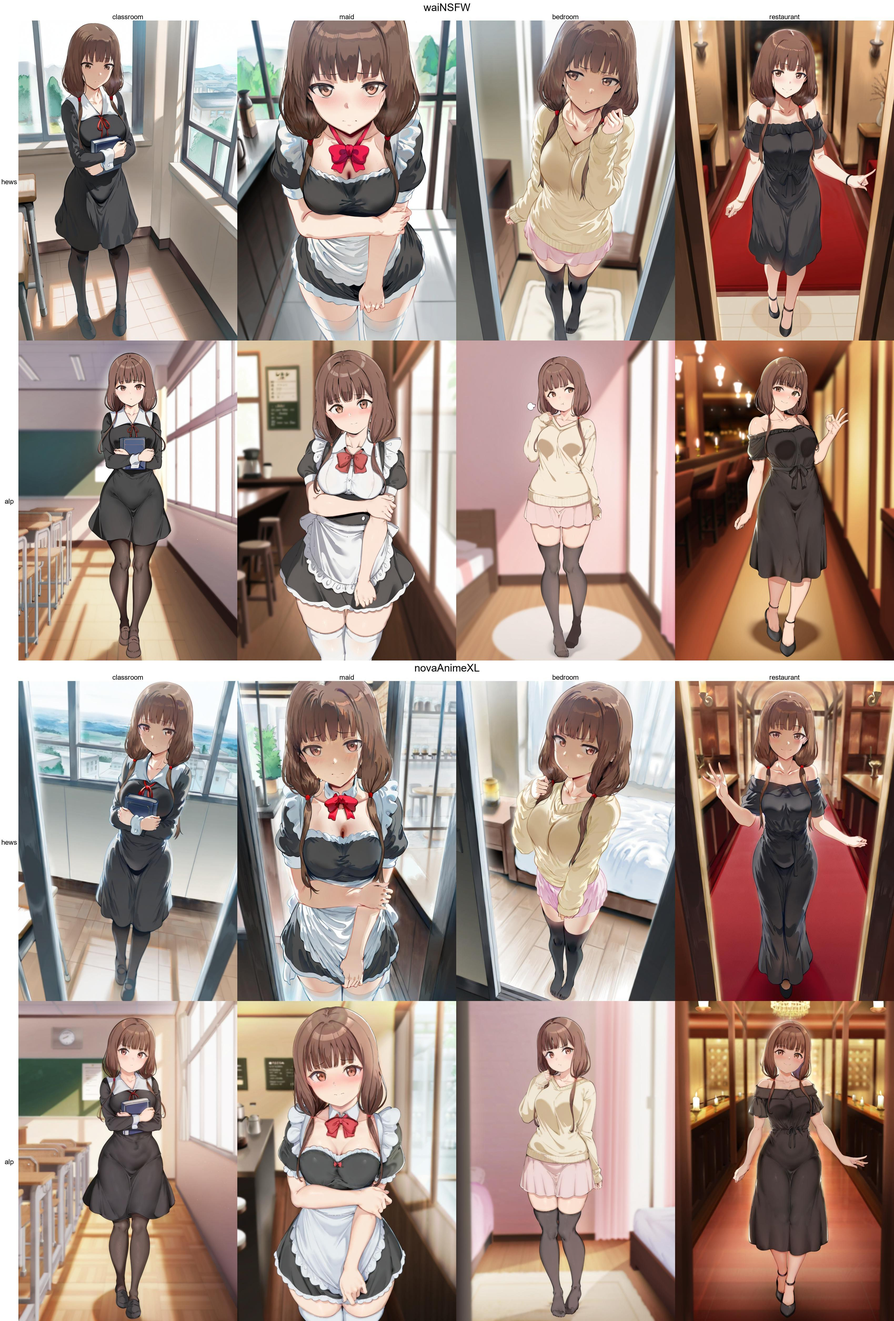
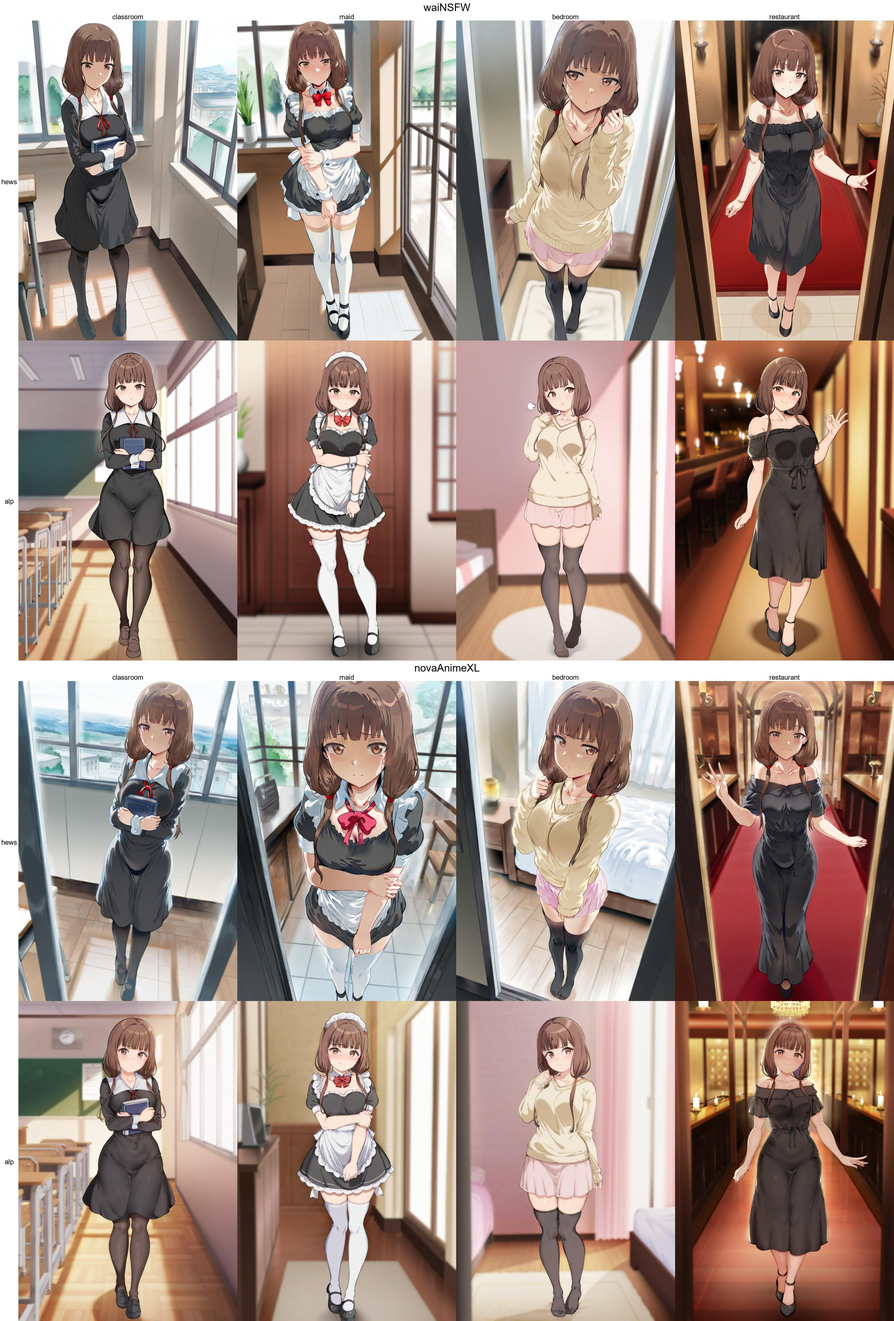
fix(zyx): add miss prompt

Changed region(s): [[0.2496, 0.0, 0.5303, 1.0]]

diff --git a/txt2img_zyx/task_config/example.py b/txt2img_zyx/task_config/example.py
@@ -72,7 +72,7 @@ TASK_CONFIG_X = [
     {
         TITLE: "maid",
         CONFIG: {
-            PROMPT_CLOTHES: lambda s: "apron, red bow, red bowtie, black dress, maid apron, puffy short sleeves, puffy sleeves, short sleeves, waist apron, white apron,white thighhighs",
+            PROMPT_CLOTHES: lambda s: "apron, red bow, red bowtie, black dress, maid apron, puffy short sleeves, puffy sleeves, short sleeves, waist apron, white apron,white thighhighs,(white wristban),",
             PROMPT_SCENE: lambda s: "Coffee shop",
             PROMPT_MOTION: lambda s: "full body,standing,mouth, enmaided, fingernails, holding own arm, looking at viewer, maid, split mouth,  wristban,shame,blush"
         }
